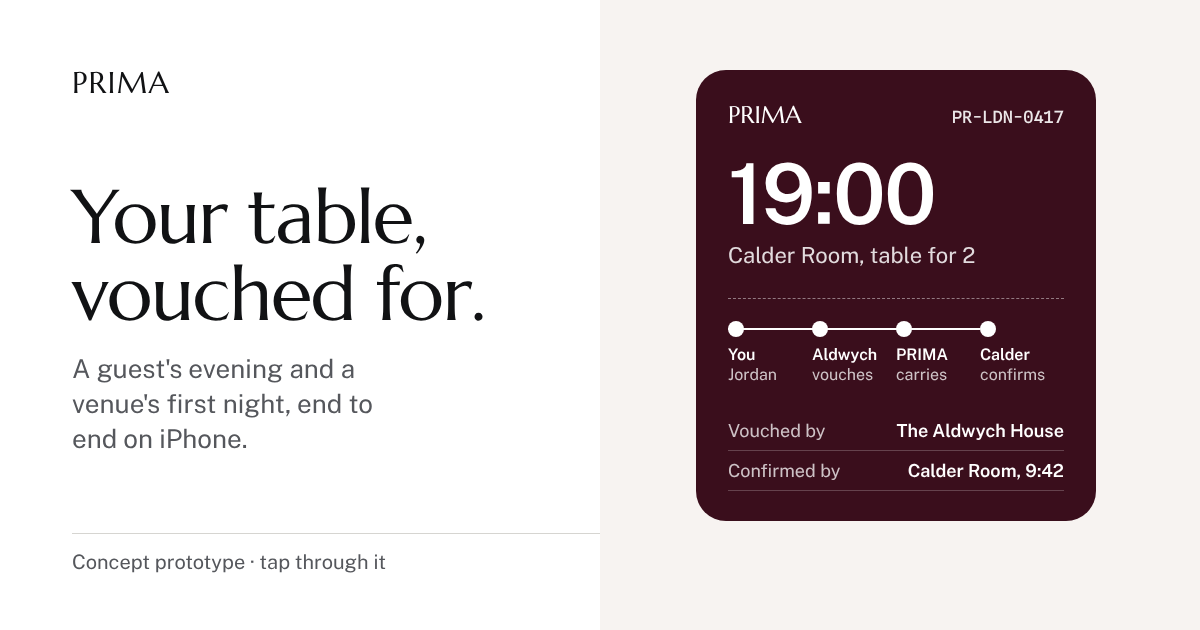
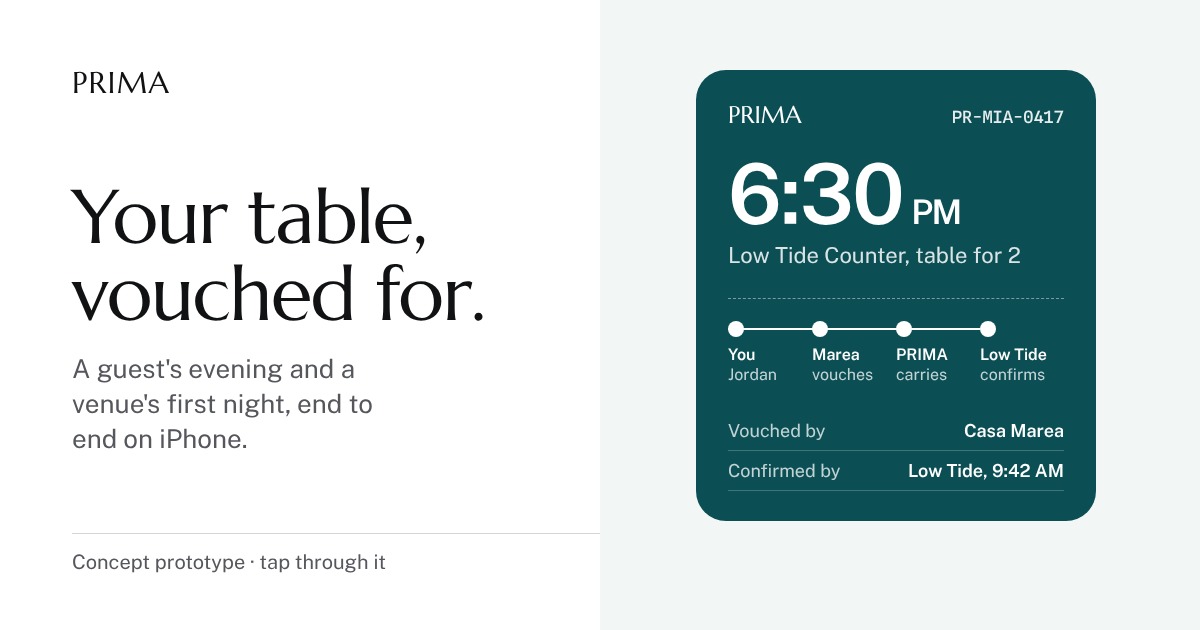
Open on Miami with a full-bleed landing and tonight's held table; Miami OG image
Claude-Session: https://claude.ai/code/session_01FEHpQDr3evdWtzpXvBTx6Z

Changed region(s): [[0.555, 0.0905, 0.925, 0.8444]]

diff --git a/prima-app/index.html b/prima-app/index.html
@@ -376,10 +376,35 @@ button.info b{font-size:calc(var(--s)*15px);white-space:nowrap;overflow:hidden;t
 .revs p{margin:10px 0 8px;font-size:calc(var(--s)*16px);line-height:1.45}
 .tag{font-size:12px;font-weight:600;color:var(--mute);background:var(--ground);border-radius:999px;padding:4px 10px}
 @media(max-width:600px){.msheet{top:24px}}
+
+.introapp{background:var(--ground)}
+.ihero{position:relative;min-height:600px;display:flex;flex-direction:column;justify-content:flex-end;color:#fff;overflow:hidden}
+.ibg{position:absolute;inset:0;width:100%;height:100%;object-fit:cover;max-width:none;transform:scale(1.04);animation:kb 18s ease-out forwards}
+.rm .ibg{animation:none;transform:none}
+@keyframes kb{to{transform:scale(1.12) translateY(-8px)}}
+.ishade{position:absolute;inset:0;background:linear-gradient(180deg,rgba(0,0,0,.45) 0%,rgba(0,0,0,0) 26%,rgba(0,0,0,.05) 44%,rgba(0,0,0,.78) 82%,rgba(0,0,0,.9) 100%)}
+.ihero .sb{position:absolute;top:0;left:0;right:0;z-index:2}
+.itop{position:absolute;top:58px;left:22px;right:22px;display:flex;justify-content:space-between;align-items:center;z-index:2}
+.itop .mark{font-size:22px;color:#fff;letter-spacing:.12em}
+.ipill{font-size:12px;font-weight:600;padding:7px 12px;border-radius:999px;background:rgba(255,255,255,.18);backdrop-filter:blur(14px);-webkit-backdrop-filter:blur(14px);border:1px solid rgba(255,255,255,.28)}
+.icopy{position:relative;z-index:2;padding:0 22px 34px}
+.ieye{margin:0 0 10px;font-size:13px;font-weight:700;letter-spacing:.14em;text-transform:uppercase;color:var(--acc,#fff);opacity:.95}
+.ih1{margin:0;font-size:calc(var(--s)*46px);line-height:1.02;letter-spacing:-.01em;text-wrap:balance}
+.ilede{margin:14px 0 0;font-size:calc(var(--s)*18px);line-height:1.45;color:rgba(255,255,255,.88);max-width:30ch}
+.ipad{position:relative;margin-top:-18px;background:var(--ground);border-radius:22px 22px 0 0;padding-top:18px;z-index:3}
+.feat{display:grid;grid-template-columns:64px 1fr auto;gap:14px;align-items:center;width:100%;text-align:left;padding:12px;border:0;border-radius:20px;background:#fff;box-shadow:0 10px 30px rgba(0,0,0,.08);cursor:pointer;color:var(--ink);font:inherit;transition:transform .12s}
+.feat:active{transform:scale(.985)}
+.feat img{width:64px;height:64px;border-radius:14px;object-fit:cover}
+.ftxt{display:grid;gap:2px;min-width:0}
+.ftxt b{font-family:var(--df);font-weight:var(--dw);font-size:calc(var(--s)*20px);line-height:1.1}
+.feye{white-space:nowrap;font-size:11px;font-weight:700;letter-spacing:.1em;text-transform:uppercase;color:var(--acct)}
+.ftime{font-weight:700;font-size:calc(var(--s)*16px);padding:10px 12px;border-radius:12px;background:var(--primary);color:var(--onp);white-space:nowrap;font-variant-numeric:tabular-nums}
+@media(max-width:600px){.screen .coach{padding:12px 12px 20px}.screen .coach div{padding:18px}.screen .coach h2{font-size:20px}.screen .coach p{font-size:15px;margin-bottom:12px}.ihero{min-height:calc(100svh - 150px)}.itop{top:16px}}
 .mbar{display:none}
-.coach{position:absolute;inset:0;z-index:8;background:rgba(10,10,12,.55);display:flex;align-items:flex-end;padding:16px 16px 34px}
+.coach{position:absolute;inset:0;z-index:8;background:linear-gradient(transparent 40%,rgba(10,10,12,.55));display:flex;align-items:flex-end;padding:16px 16px 34px}
 .coach div{background:#fff;color:#141414;border-radius:24px;padding:22px;width:100%}
-.coach h2{font:400 26px/1.1 Marcellus,serif;margin:0 0 8px}
+.coach div{box-shadow:0 20px 50px rgba(0,0,0,.3)}
+.coach h2{font:400 24px/1.15 Marcellus,serif;margin:0 0 8px}
 .coach p{margin:0 0 16px;font-size:16px;line-height:1.45;color:#3a3a3d}
 .next{display:grid;gap:8px;margin-top:16px}
 @media(max-width:600px){
@@ -482,15 +507,15 @@ const EXP={
 };
 const WATER={ldn:'M0 178 C 80 160 160 196 240 176 S 340 170 340 170 L340 210 L0 210Z',nyc:'M0 0 L44 0 C 36 70 52 140 40 210 L0 210Z',mia:'M300 0 C 284 60 312 120 296 210 L340 210 L340 0Z',ibz:'M340 110 C 290 130 300 180 240 210 L340 210Z'};
 const NEEDS=['Step-free access','Quiet table','Vegetarian','Shellfish allergy','Celebrating'];
-const S={i:0,t:'ldn',v:0,slot:null,party:2,needs:new Set(['Step-free access']),name:'Jordan Ellis',filter:'all',sealing:false,ans:{},note:'',scale:1,rm:matchMedia('(prefers-reduced-motion: reduce)').matches,hc:false,vname:'Orla',vkind:'Neighbourhood bistro',covers:8,win:new Set([1140,1200,1260]),vacc:'#E4572E',seated:new Set(),toast:'',names:{},coach:true,view:'list',vtab:'overview',viewer:null,modal:null,mtopic:null,saved:new Set(),vcover:11,vhl:new Set(['Window tables for two','Wood-fired bread','Kitchen open until 23:30'])};
+const S={i:0,t:'mia',v:0,slot:null,party:2,needs:new Set(['Step-free access']),name:'Jordan Ellis',filter:'all',sealing:false,ans:{},note:'',scale:1,rm:matchMedia('(prefers-reduced-motion: reduce)').matches,hc:false,vname:'Orla',vkind:'Neighbourhood bistro',covers:8,win:new Set([1140,1200,1260]),vacc:'#E4572E',seated:new Set(),toast:'',names:{},coach:true,view:'list',vtab:'overview',viewer:null,modal:null,mtopic:null,saved:new Set(),vcover:11,vhl:new Set(['Window tables for two','Wood-fired bread','Kitchen open until 23:30'])};
 const VHL=['Window tables for two','Wood-fired bread','Kitchen open until 23:30','Chef\'s counter, six seats','Natural wine list','Private room for eight'];
 const W=(x=t())=>S.names[x.key]?x.c:x.short;
 
 const SCREENS=[
- {id:'intro',g:'m',n:'Introduction',p:'The hotel introduces you',why:'There is no sign-up. The member arrives already vouched for: the hotel scanned them in at check-in, so the first screen is a welcome, not a form.',
-  hig:['Onboarding: "get people to the experience quickly"; defer account creation until it adds value.','Privacy: explain what is shared before asking, in plain language (the disclosure below the button).','Layout: primary action anchored at the bottom, within the reachable zone.'],
-  sci:['Endowed progress effect (Nunes and Drèze, 2006): the line opens with two of four nodes already filled, which raises completion.','Authority and social proof (Cialdini, 1984): a named house vouching is stronger than any rating.','Fitts\'s law (Fitts, 1954) and the thumb zone (Hoober, 2013): the one action is large and low.'],
-  vo:'Heading. The Aldwych House introduces you. Line of introduction, step 2 of 4. Button, Accept the introduction.'},
+ {id:'intro',g:'m',n:'Introduction',p:'The hotel introduces you',why:'There is no sign-up. The member arrives already vouched for: the hotel scanned them in at check-in, so the first screen is a welcome, not a form. It opens on the city, full-bleed, and shows the table already held tonight, so the value is visible before the first tap.',
+  hig:['Onboarding: "get people to the experience quickly"; defer account creation until it adds value.','Privacy: explain what is shared before asking, in plain language (the disclosure below the button).','Layout: primary action anchored at the bottom, within the reachable zone.','Materials: text over photography sits on a gradient scrim so it holds contrast at every image.'],
+  sci:['Endowed progress effect (Nunes and Drèze, 2006): the line opens with two of four nodes already filled, which raises completion.','Authority and social proof (Cialdini, 1984): a named house vouching is stronger than any rating.','Aesthetic-usability effect (Kurosu and Kashimura, 1995): first impressions of beauty raise perceived ease of use and trust.','Concreteness: a specific table at a specific time is more persuasive than a general promise.','Fitts\'s law (Fitts, 1954) and the thumb zone (Hoober, 2013): the one action is large and low.'],
+  vo:'Heading. Casa Marea introduces you. Button, Held for you tonight: Low Tide Counter, 6:30 PM. Line of introduction, step 2 of 4. Button, Accept the introduction.'},
  {id:'you',g:'m',n:'About you',p:'Asked once, carried everywhere',why:'Three fields, all prefilled from the hotel stay. Needs are captured once and travel to every venue, so a guest never explains a wheelchair or an allergy twice.',
   hig:['Accessibility: support people\'s needs as a feature, not a setting buried in a menu.','Text fields: prefill what you know; use the right keyboard and content type.','Toggles and buttons: every chip is a 44 by 44 pt target.'],
   sci:['Recognition over recall (Nielsen heuristic 6): pick from chips, never type a need.','Form length and abandonment (Baymard Institute checkout research): every field must earn its place, so this screen has three.','Default effect (Johnson and Goldstein, 2003): party of 2 is the sensible default.'],
@@ -576,18 +601,21 @@ const mapAll=()=>{const x=t();const hx=120,hy=150;const pins=x.v.map((a,i)=>{con
  <span class="hpin" style="left:${hx/3.4}%;top:${hy/2.1}%" aria-hidden="true"><i></i>${esc(x.short)}</span>
  ${pins.map(p=>`<button type="button" class="vpin ${p.i===S.mapSel?'on':''}" style="left:${p.px/3.4}%;top:${p.py/2.1}%" data-pin="${p.i}" aria-pressed="${p.i===S.mapSel}" aria-label="${esc(p.a[0])}, ${p.a[3]} minute walk"><img src="img/p${D[S.t][p.i].ph[0]}.jpg" alt=""><b>${esc(p.a[0])}</b></button>`).join('')}</div>`};
 const pb=n=>({GBP:'£',USD:'$',EUR:'€'}[t().cur]).repeat(n);
-const line=(stage,dark)=>{const v=venue();const nodes=[['You',S.name.split(' ')[0]],[t().hotel,S.names[S.t]?t().c:'concierge desk'],['PRIMA','carries'],[stage>=3?v.n:'Venue',stage>=3?fmtT(S.slot??v.slots[0]):'tonight']];
+const line=(stage,dark)=>{const v=venue();const nodes=[['You',S.name.split(' ')[0]],[t().short,S.names[S.t]?t().c:'vouches'],['PRIMA','carries'],[stage>=3?v.n:'Venue',stage>=3?fmtT(S.slot??v.slots[0]):'tonight']];
   return `<ol class="line" aria-label="Line of introduction, step ${Math.min(stage+1,4)} of 4">${nodes.map((n,i)=>`<li class="${i<=stage?'on':''}" style="--i:${i}"><b>${esc(n[0])}</b><span>${esc(n[1])}</span></li>`).join('')}</ol>`};
 const sb=dark=>`<div class="sb ${dark?'dark':''}" aria-hidden="true"><span>9:41</span><span class="island"></span><span class="sbi"><svg width="18" height="11" viewBox="0 0 18 11" fill="currentColor"><rect x="0" y="7" width="3" height="4" rx="1"/><rect x="5" y="5" width="3" height="6" rx="1"/><rect x="10" y="2.5" width="3" height="8.5" rx="1"/><rect x="15" y="0" width="3" height="11" rx="1"/></svg><svg width="25" height="12" viewBox="0 0 25 12" fill="none" stroke="currentColor"><rect x=".5" y=".5" width="21" height="11" rx="3.5" opacity=".5"/><rect x="2" y="2" width="16" height="8" rx="2" fill="currentColor" stroke="none"/></svg></span></div>`;
 const tabs=cur=>{const ic={tonight:'<path d="M4 6h16M4 12h16M4 18h10" stroke="currentColor" stroke-width="1.8" fill="none" stroke-linecap="round"/>',pass:'<rect x="4" y="5" width="16" height="14" rx="3" stroke="currentColor" stroke-width="1.8" fill="none"/><path d="M4 10h16" stroke="currentColor" stroke-width="1.8" stroke-dasharray="2 2"/>',record:'<path d="M6 4h12v16H6z M9 9h6M9 13h6" stroke="currentColor" stroke-width="1.8" fill="none"/>'};
   return `<nav class="tabs" aria-label="Tabs">${[['tonight','Tonight',2],['pass','Pass',5],['record','Record',8]].map(([k,l,i])=>`<button type="button" data-go="${i}" ${cur===k?'aria-current="page"':''}><svg viewBox="0 0 24 24" aria-hidden="true">${ic[k]}</svg>${l}</button>`).join('')}</nav>`};
 
 const R={
- intro:()=>`${sb(1)}<div class="app"><div class="field"><div class="mark" aria-label="PRIMA">PRIMA</div><h1 class="disp t1" tabindex="-1" style="margin-top:28px">${esc(t().hotel)} introduces you.</h1>
-   <p class="lede">${S.names[S.t]?esc(t().c)+', your concierge,':'The '+esc(t().short)+' concierge desk'} can vouch for you at rooms in ${esc(t().city)} that do not take open bookings.</p>${line(1)}</div>
-   <div class="pad"><div class="rules"><div class="row"><span>Staying in</span><b>Room ${esc(t().room)}</b></div><div class="row"><span>Until</span><b>${esc(t().until)}</b></div><div class="row"><span>Introduced by</span><b>${S.names[S.t]?esc(t().c)+', concierge':esc(t().short)+' concierge desk'}</b></div></div>
+ intro:()=>{const v0=t().v[0],d0=D[S.t][0],who=S.names[S.t]?esc(t().c)+', your concierge at '+esc(t().short)+',':'The '+esc(t().short)+' concierge desk';return `<div class="app introapp"><div class="ihero"><img src="img/p${d0.ph[0]}.jpg" alt="" class="ibg"><div class="ishade"></div>${sb(0).replace('class="sb ','class="sb glass ')}
+   <div class="itop"><span class="mark" aria-label="PRIMA">PRIMA</span><span class="ipill">${esc(t().city)} · by introduction</span></div>
+   <div class="icopy"><p class="ieye">Welcome, ${esc(S.name.split(' ')[0])}</p><h1 class="disp ih1" tabindex="-1">${esc(t().hotel)} introduces you.</h1><p class="ilede">${who} can vouch for you at the rooms in ${esc(t().city)} that never take open bookings.</p></div></div>
+   <div class="pad ipad"><button type="button" class="feat" data-featured="1" aria-label="Held for you tonight: ${esc(v0[0])}, ${esc(v0[1])}, ${esc(v0[2])}, ${fmtT(v0[6][0])}. Accept the introduction to see it."><img src="img/p${d0.ph[1]}.jpg" alt=""><span class="ftxt"><span class="feye">Held for you tonight</span><b>${esc(v0[0])}</b><span class="small">${esc(v0[1])} · ${esc(v0[2])} · ${v0[3]} min walk</span></span><span class="ftime">${fmtT(v0[6][0])}</span></button>
+   <h2 class="sh" style="margin-top:26px">Your line of introduction</h2>${line(1)}
+   <div class="rules" style="margin-top:18px"><div class="row"><span>Staying in</span><b>Room ${esc(t().room)}</b></div><div class="row"><span>Until</span><b>${esc(t().until)}</b></div><div class="row"><span>Introduced by</span><b>${S.names[S.t]?esc(t().c)+', concierge':esc(t().short)+' concierge desk'}</b></div></div>
    <details><summary>What PRIMA shares, and with whom</summary><p class="small">Your name, party and any needs you choose go only to the venue you book and to ${esc(t().hotel)}, for service. Nothing is sold. You can remove your record at any time.</p></details></div>
-   <div class="dock"><button class="btn" data-go="1">Accept the introduction</button></div></div>`,
+   <div class="dock"><button class="btn" data-go="1">Accept the introduction</button></div></div>`},
  you:()=>`${sb()}<div class="app"><div class="pad" style="padding-top:8px"><h1 class="disp t2" tabindex="-1">About you</h1><p class="small" style="margin-top:6px">Asked once. Carried to every venue, so you never explain twice.</p>
    <label class="lbl" for="nm">Name</label><input class="in" id="nm" value="${esc(S.name)}" autocomplete="name">
    <span class="lbl" id="pl">Usual party</span><div class="step" role="group" aria-labelledby="pl"><button type="button" data-party="-1" aria-label="Fewer guests">−</button><output aria-live="polite">${S.party} guests</output><button type="button" data-party="1" aria-label="More guests">+</button></div>
@@ -753,6 +781,7 @@ document.addEventListener('click',e=>{const el=e.target.closest('button');if(!el
   if(d.quick){const[i,m]=d.quick.split('|');S.v=+i;S.slot=+m;go(4);return}
   if(d.view){S.view=d.view;render();return}
   if(d.pin!=null){S.mapSel=+d.pin;render();return}
+  if(d.featured){go(1);return}
   if(d.vtab){S.vtab=d.vtab;render();return}
   if(d.modal){const was=S.modal;S.modal=d.modal;S.mtopic=null;S._ret=was?S._ret:e.target.closest('[data-modal]');S._mfocus=!was;render();const mb=document.getElementById('mbody');if(mb)mb.scrollTop=0;return}
   if(d.mtopic!=null){S.mtopic=d.mtopic||null;const mb=document.getElementById('mbody'),k=mb?mb.scrollTop:0;render();const m2=document.getElementById('mbody');if(m2)m2.scrollTop=k;document.querySelector('[data-mtopic][aria-checked=true]')?.focus({preventScroll:true});return}
